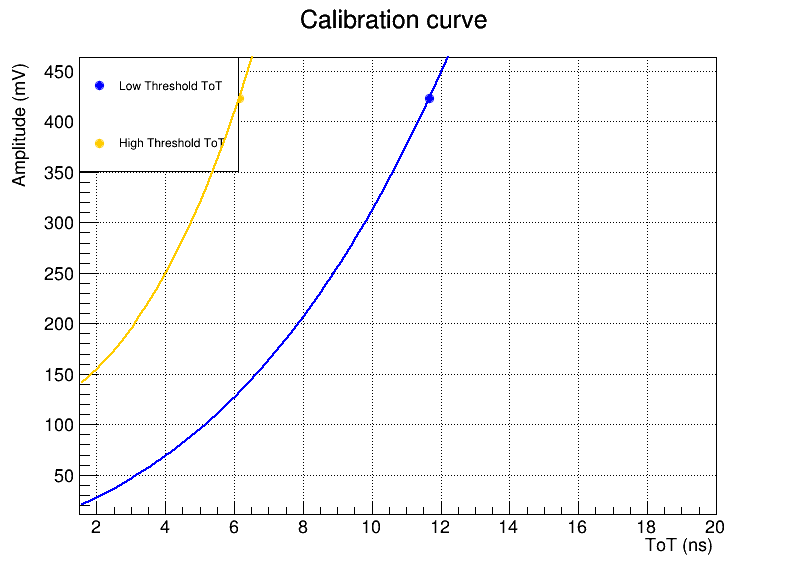
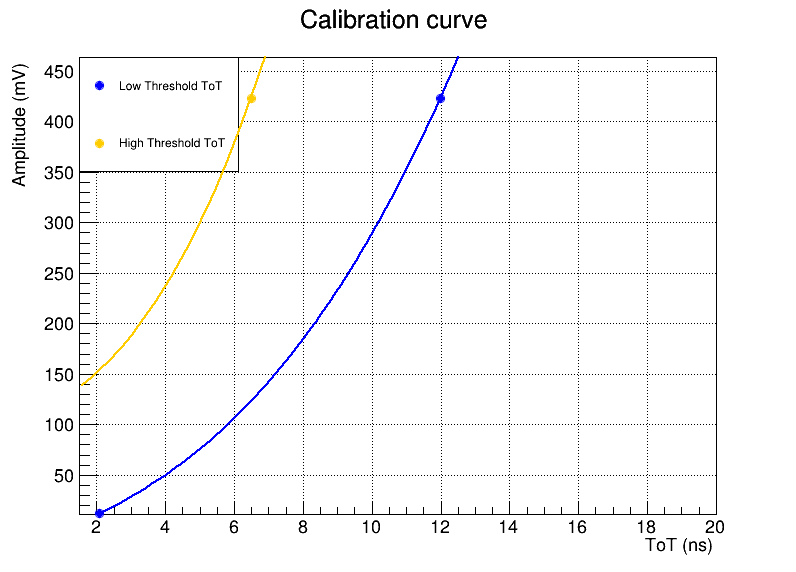
new commit

diff --git a/time_distribution_graph.C b/time_distribution_graph.C
@@ -19,7 +19,7 @@
 // Definizione delle costanti
 const double SATURATION_LIMIT = 2700;
 const int NUM_POINTS = 10000;
-const double GAUSSIAN_STDDEV = 0.6;
+const double GAUSSIAN_STDDEV = 0.8;
 
 // Funzione gaussiana
 double gaussian(double x, double mean, double stddev) {
@@ -203,7 +203,7 @@ void processFile(const std::string& filename, std::vector<double>& N, std::vecto
       legend->Draw();
       
       // Salvataggio del canvas su file
-      std::string outputFilename = "time_distribution_test1" + filename + ".png";
+      std::string outputFilename = "time_distribution_test2" + filename + ".png";
       canvas->SaveAs(outputFilename.c_str());
       
       // Pulizia della memoria
